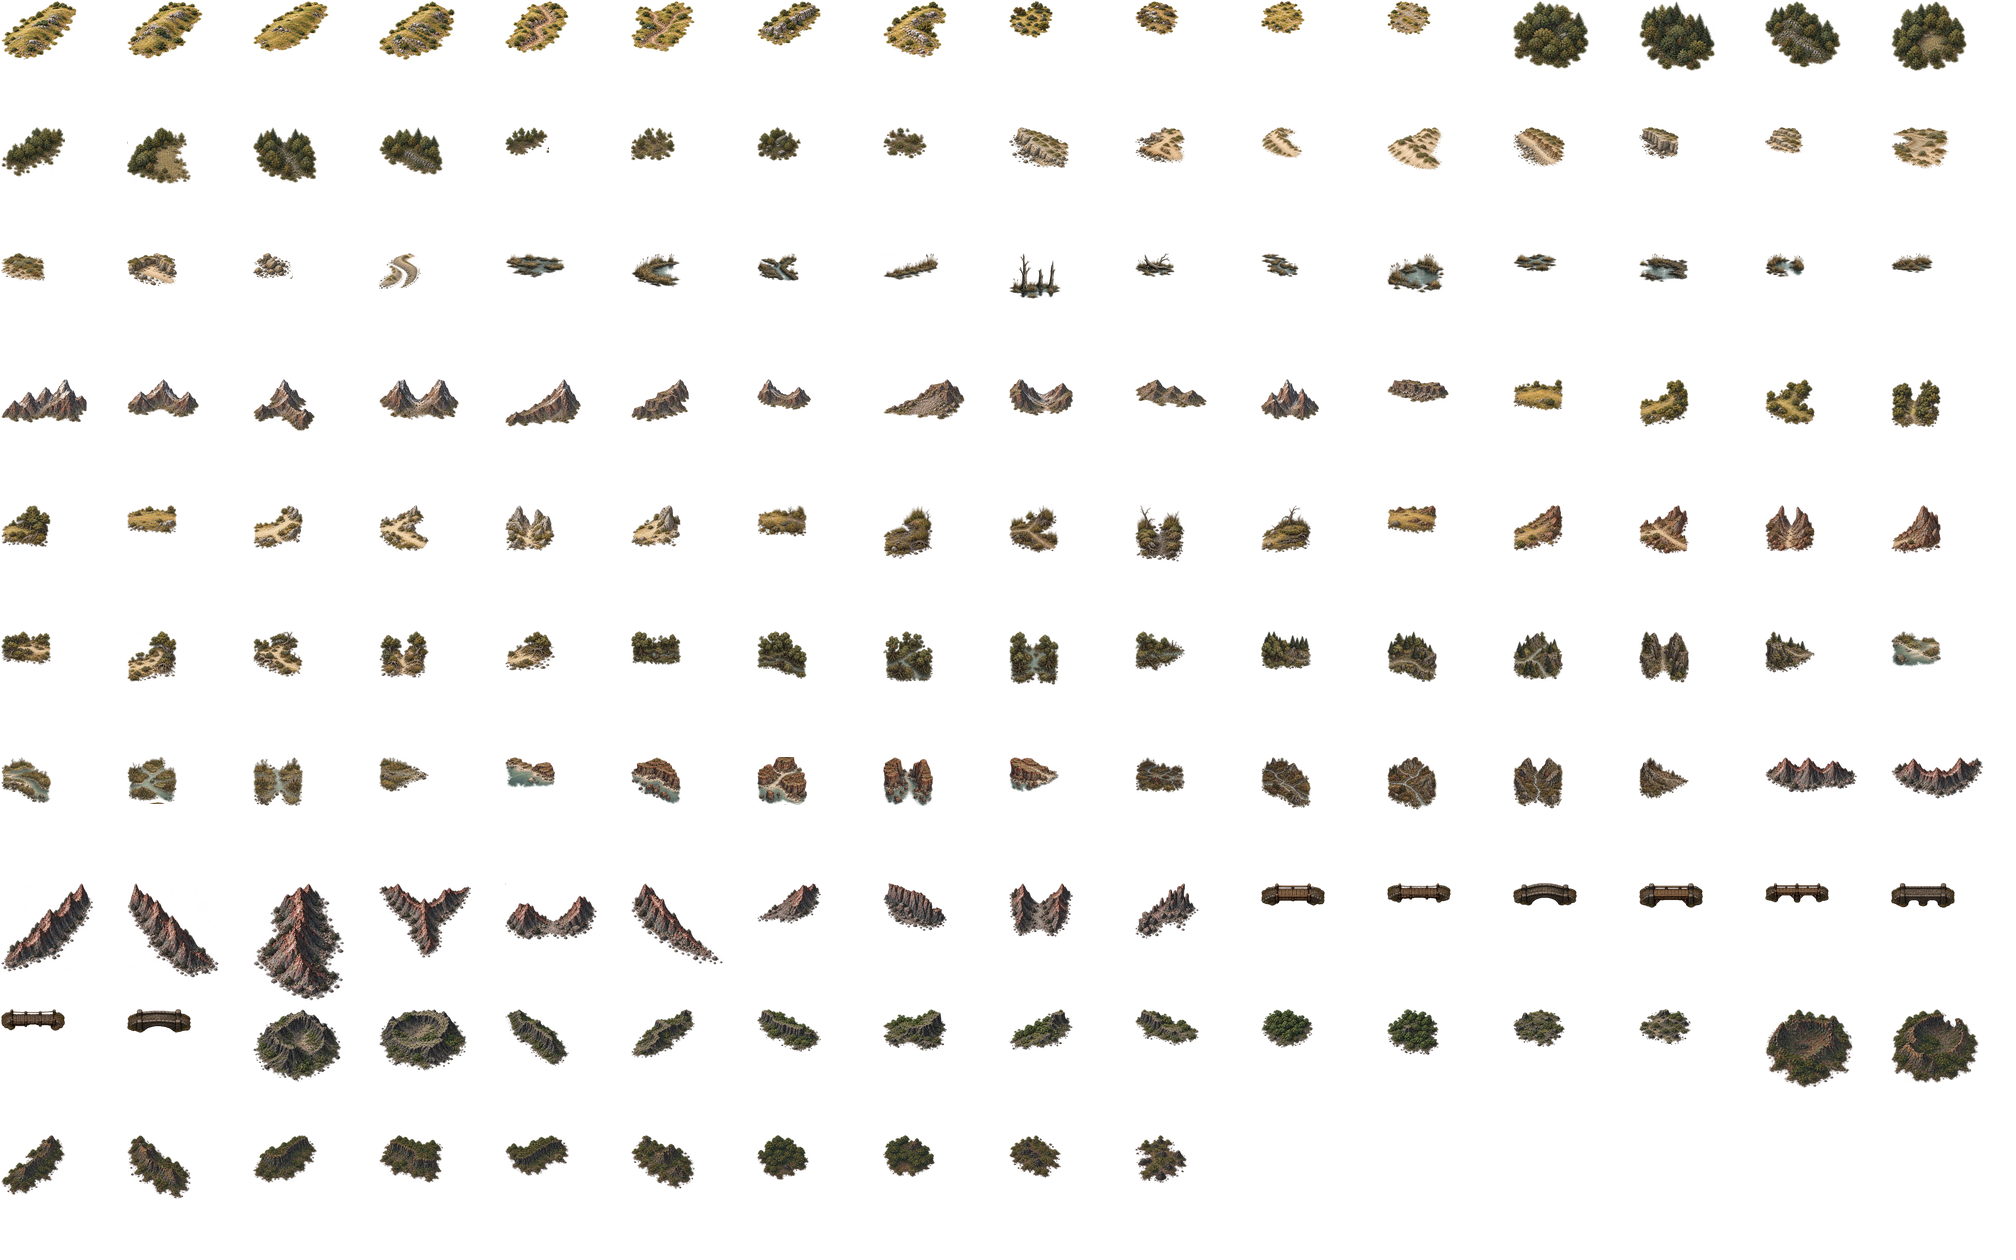
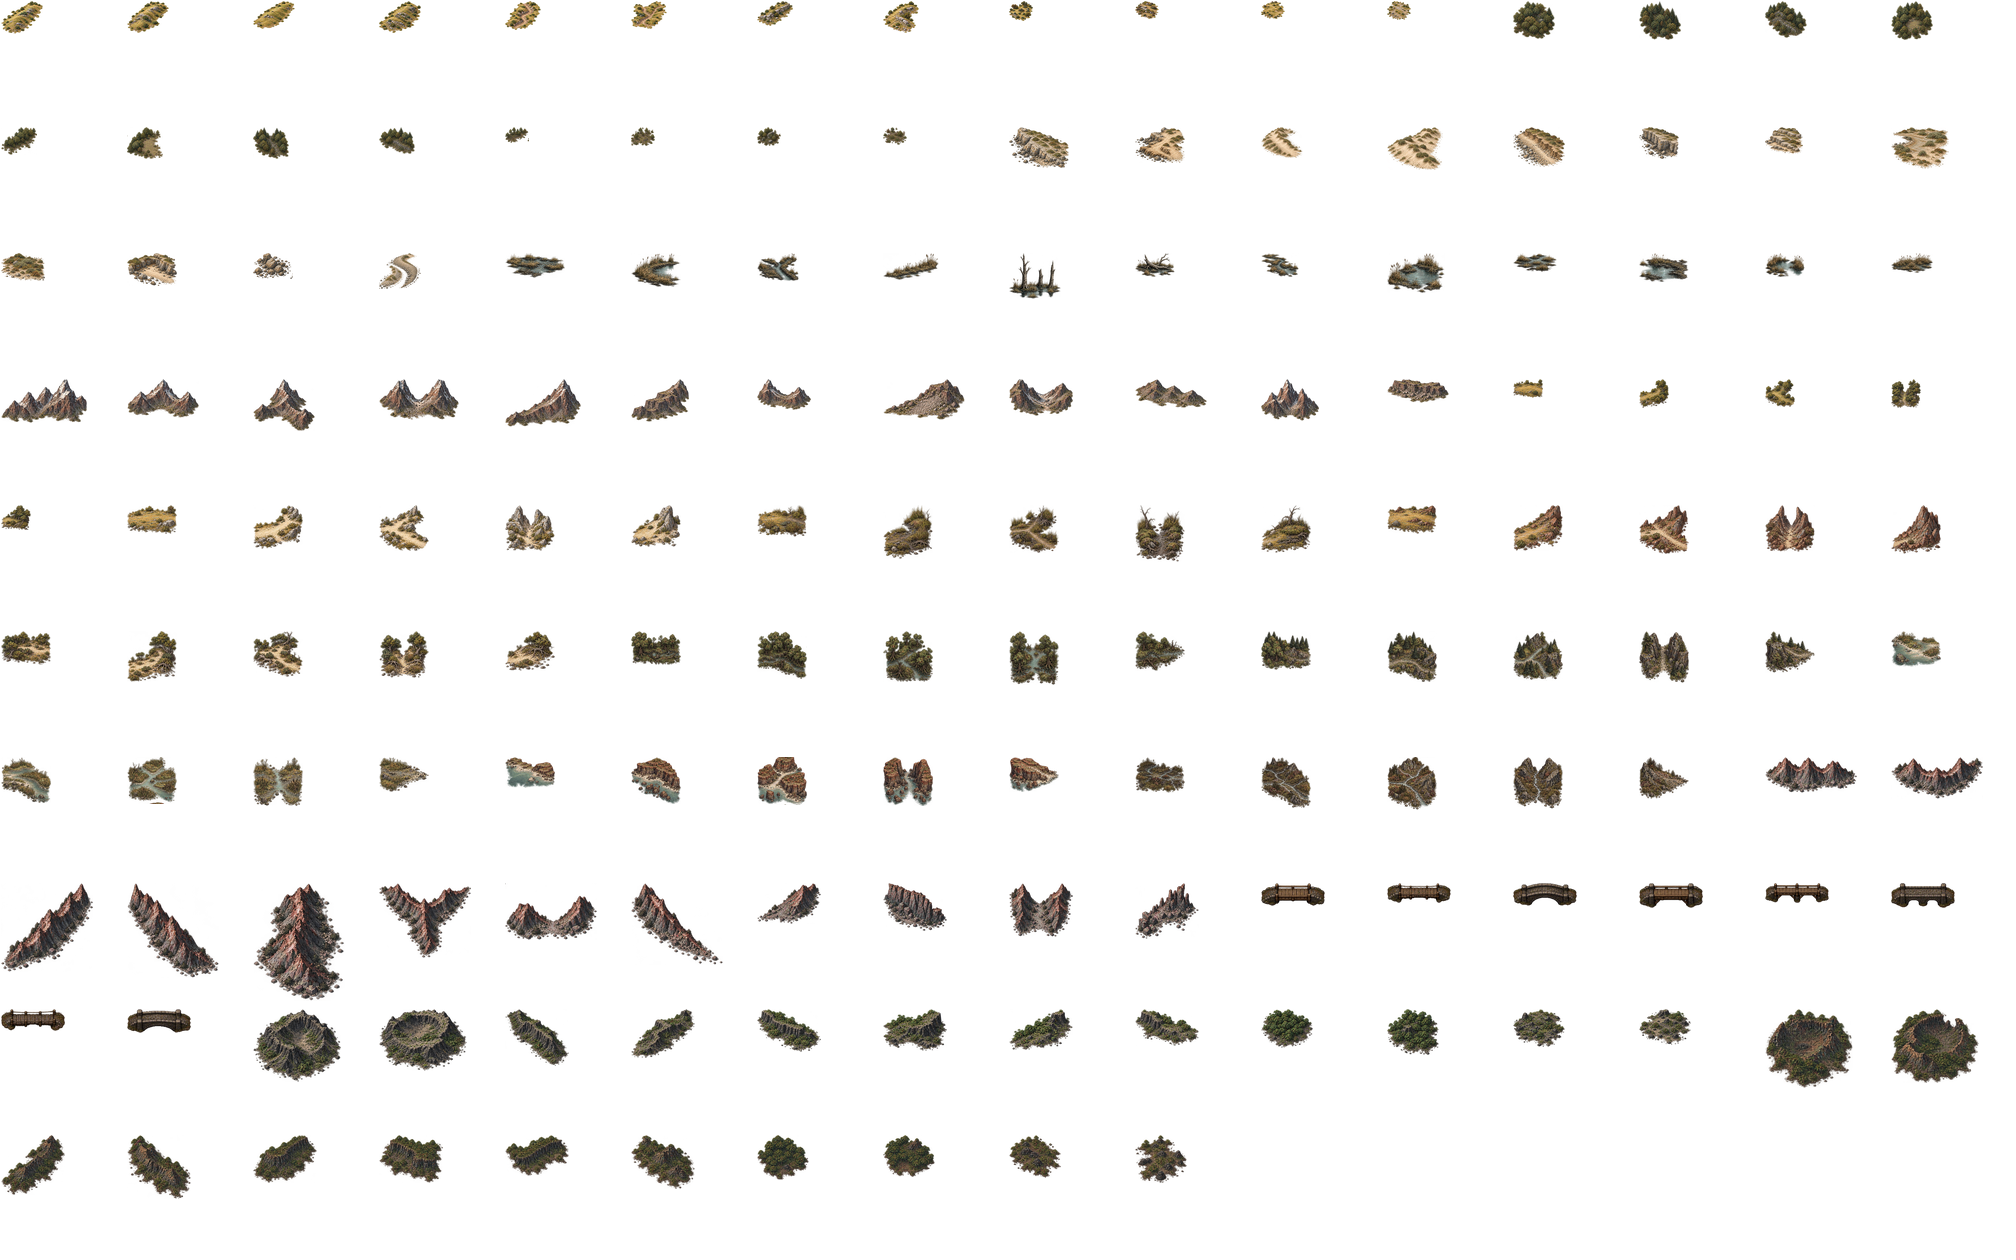
Render plains and forests at a more distant terrain scale

diff --git a/images/dark-fantasy/map-generation-prototype/terrain-composition.js b/images/dark-fantasy/map-generation-prototype/terrain-composition.js
@@ -79,7 +79,7 @@ export function composeTerrainLandscape({ map, art, pixel, world, legal, detail,
       const prop = make(kind, px, py, family, salt, allowedBiomes, context), near = nearby(prop);
       // Never repeat the same source painting beside itself, including mirrors.
       if (near.some(p => baseKind(p.kind) === baseKind(kind)
-        && Math.hypot(p.left - prop.left, p.top - prop.top) < (family.startsWith('contact') ? 40 : 58) * detail)) continue;
+        && Math.hypot(p.left - prop.left, p.top - prop.top) < (family.startsWith('contact') ? 40 : ['terrain-plains','terrain-forest'].includes(family) ? 32 : 58) * detail)) continue;
       if (!legal(prop)) continue;
       let overlap = 0;
       for (const p of near) overlap = Math.max(overlap, illustrationOverlap(prop, p, art));
@@ -116,15 +116,15 @@ export function composeTerrainLandscape({ map, art, pixel, world, legal, detail,
       const rear=Math.sin(a)<-.25;
       const indices=rear?recipe.rear:recipe.front;
       let prop;
-      for(const ring of [1.4,1.75,2.1]) {
+      for(const ring of (['plains','forest'].includes(site.biome)?[1.15,1.45,1.75]:[1.4,1.75,2.1])) {
         const x=site.x+Math.cos(a)*(site.rx*ring+4*detail);
         const y=site.y+Math.sin(a)*(site.ry*ring+3*detail);
         prop=choose({x,y,family,indices,salt:620001+i*9887+n*431,allowedBiomes:[site.biome],context:'settlement-edge',
-          sizeLevel:['plains','forest','islands'].includes(site.biome)?1:0});
+          sizeLevel:['plains','forest'].includes(site.biome)?(rear?0:1):site.biome==='islands'?1:0});
         if(prop) break;
       }
       if(prop) {prop.siteRegion=site.regionId;add(prop);placed++;}
-      if(placed>=6) break;
+      if(placed>=(['plains','forest'].includes(site.biome)?8:6)) break;
     }
     if(site.surroundings) site.surroundings.placed=placed;
     diagnostics.settlementEdges.push({region:site.regionId,biome:site.biome,placed});
@@ -288,7 +288,7 @@ export function composeTerrainLandscape({ map, art, pixel, world, legal, detail,
       candidates.push({ x, y, density, salt });
     }
     candidates.sort((a, b) => b.density - a.density);
-    let placed = 0, limit = Math.ceil(area / ((region.biome === 'islands' ? (islandStyle === 'caldera' ? 600 : 1000) : region.biome === 'swamp' ? 1100 : dense ? 320 : region.biome === 'plains' ? 950 : 560) * detail * detail));
+    let placed = 0, limit = Math.ceil(area / ((region.biome === 'islands' ? (islandStyle === 'caldera' ? 600 : 1000) : region.biome === 'swamp' ? 1100 : dense ? 110 : region.biome === 'plains' ? 320 : 560) * detail * detail));
     for (const candidate of candidates) {
       if (placed >= limit || props.length >= 600) break;
       const prop = choose({ ...candidate, family, indices: region.biome === 'forest' && candidate.density < .57 ? [4,5,8,9,10,11] : region.biome === 'islands' ? [8,9,10,11] : region.biome === 'mountains' ? [7, 8, 9, 11] : INTERIORS[region.biome], allowedBiomes: [region.biome], context: 'interior' });

diff --git a/images/dark-fantasy/map-generation-prototype/terrain-surfaces.js b/images/dark-fantasy/map-generation-prototype/terrain-surfaces.js
@@ -55,9 +55,13 @@ export function createSurfaceSampler({ map, bounds, texel, width, height, land, 
       const n = Math.floor(decorationRandom(map.seed ^ 60331, Math.imul(cx, 73856093) ^ Math.imul(cy, 19349663)) * 16);
       record = use(tiles.get(`ground-${biome}-${n}`)); groundCells.set(key, record);
     }
-    return sample(record, wx, wy);
+    const scale = ['plains','forest'].includes(biome) ? 2 : 1;
+    return sample(record, wx*scale, wy*scale);
   };
-  const groundVariant = (biome, variant, x, y) => sample(use(tiles.get(`ground-${biome}-${variant}`)), worldX(x), worldY(y));
+  const groundVariant = (biome, variant, x, y) => {
+    const scale = ['plains','forest'].includes(biome) ? 2 : 1;
+    return sample(use(tiles.get(`ground-${biome}-${variant}`)), worldX(x)*scale, worldY(y)*scale);
+  };
   const landAt = (x, y) => x >= 0 && y >= 0 && x < width && y < height && land[Math.floor(y) * width + Math.floor(x)] ? 1 : 0;
   const shoreCase = (biome, x, y) => {
     const cx = Math.floor(worldX(x) / 32), cy = Math.floor(worldY(y) / 32), key = `${biome}:${cx}:${cy}`;

diff --git a/images/dark-fantasy/map-generation-prototype/terrain-foundations.js b/images/dark-fantasy/map-generation-prototype/terrain-foundations.js
@@ -12,7 +12,8 @@ export function paintTerrainFoundations({ props, art, pixel, surfaces, materialA
   for (const prop of props.filter(p => p.composed)) {
     const glyph = art[prop.kind], centre = pixel(prop.point), w = glyph.rows[0].length, h = glyph.rows.length;
     const x0 = centre.x, y0 = centre.y - h * .34;
-    const rx = w * .63 + 5 * detail, ry = h * .35 + 6 * detail;
+    const fine = ['plains','forest'].includes(glyph.family);
+    const rx = w * .63 + (fine ? 2.5 : 5) * detail, ry = h * .35 + (fine ? 3 : 6) * detail;
     const left = Math.max(0, Math.floor(x0 - rx * 1.3)), right = Math.min(width - 1, Math.ceil(x0 + rx * 1.3));
     const top = Math.max(0, Math.floor(y0 - ry * 1.3)), bottom = Math.min(height - 1, Math.ceil(y0 + ry * 1.3));
     for (let y = top; y <= bottom; y++) for (let x = left; x <= right; x++) {

diff --git a/scripts/check-map-terrain.py b/scripts/check-map-terrain.py
@@ -50,6 +50,10 @@ relief = json.loads((folder / 'relief-v1.json').read_text())
 assert len(relief['frames']) == 154
 assert {r['kind'] for r in relief['frames'] if r['cutRuns']} == {'contact-7-2', 'contact-8-2'}, 'Replacement biome art must have complete extractable edges'
 assert all(r['rect'][2] <= 118 and r['rect'][3] <= 118 for r in relief['frames'])
+for frame in relief['frames']:
+    if frame['family'] in ['plains','forest']:
+        n=int(frame['kind'].split('-')[-1])
+        assert frame['rect'][2] == (42 if n<4 else 36 if n<8 else 24), 'Plains/forest must use distant-scale imported pieces'
 settlements = json.loads((folder / 'settlement-buildings-v1.json').read_text())['frames']
 assert len(settlements) == 30 and all(not f['cutRuns'] for f in settlements)
 for biome in biomes:

diff --git a/scripts/import-map-terrain.py b/scripts/import-map-terrain.py
@@ -204,7 +204,8 @@ def import_relief():
             width = 50 if contact else round((36 if name == 'mountains' else 26 if name == 'forest' else 25) * scale) * 2
             if name == 'ridge-border': width = 92 if n < 8 else 64
             if name == 'bridge': width = 64
-            if name in ['plains', 'forest']: width = 76 if n < 4 else 64 if n < 8 else 44
+            if name in ['plains', 'forest']: width = 42 if n < 4 else 36 if n < 8 else 24
+            if contact and pair == 0: width = 30
             if name.startswith('island-'): width = 88 if n < 2 else 64 if n < 8 else 52
             height = min(118, max(1, round(width * cropped.height / cropped.width)))
             image = np.array(cropped.resize((width, height), Image.Resampling.LANCZOS))

diff --git a/images/dark-fantasy/map-generation-prototype/README.md b/images/dark-fantasy/map-generation-prototype/README.md
@@ -8,7 +8,7 @@ with feathered edges; the previous broad ellipse wash is removed. Building pads
 use local soil/stone, and only a little source ground texture is reintroduced.
 Plains/forest enclosure marks are broken remnants, not a continuous circular rim.
 
-Before general terrain placement, each town gets up to six deliberately placed
+Before general terrain placement, each town gets up to eight deliberately placed
 biome pieces: low stone banks, grass and scrub for plains; woodland backs and
 fern/deadwood fringes for forests; volcanic scrub for islands; peat margins for
 swamps; low rocky flanks for mountains. Smaller foreground pieces preserve roofs.
@@ -33,7 +33,14 @@ deadwood and fern clearings. Coasts select low banks and fringes. Neither biome
 scatters the entire asset set indiscriminately. The generated source colours get
 moderate value compression; plains stone highlights are softened further.
 
-Runtime widths are 76px (major masses), 64px (banks/edges) and 44px (small cover).
+Runtime widths are 42px (major masses), 36px (banks/edges) and 24px (small cover).
+This is about 55% of the previous footprint, so crowns, shrubs and low ridges
+read as distant terrain. Forest/plains cover budgets rise roughly threefold and
+repeat spacing shrinks with the pieces, retaining connected masses rather than
+sparse miniature stamps. Ground and clearing/foundation texture is sampled at
+twice the previous frequency. Forest/plains contact illustrations are reduced
+too. Town edges sit closer to the plots and use up to eight smaller pieces;
+settlement buildings and the shared footprint stay at the approved scale.
 Whole-footprint placement can fall back to 72% and 50% sizes around water and
 settlements. Actual buildings, court and lanes are protected, with the unused
 clearing fringe available for scenery, as in the island treatment. Zoom does not
@@ -42,7 +49,7 @@ change placement. Simulation state, RNG, schemas and replay remain untouched.
 Built-in imagegen sources: `assets/masters/composable-plains-v2.png` and
 `assets/masters/composable-forest-v2.png`. Prompts, including the plains spacing
 repair, are saved in [plains-forest-prompts-v2.json](assets/masters/plains-forest-prompts-v2.json).
-The runtime art remains about 2.31 MiB; all replacement source edges pass extraction.
+The runtime art remains about 2.20 MiB; all replacement source edges pass extraction.
 Review seeds 1862 and 1873 at Fit and close zoom, labels off. Run composition,
 settlement-site and map-art checks plus browser LOD persistence.
 
